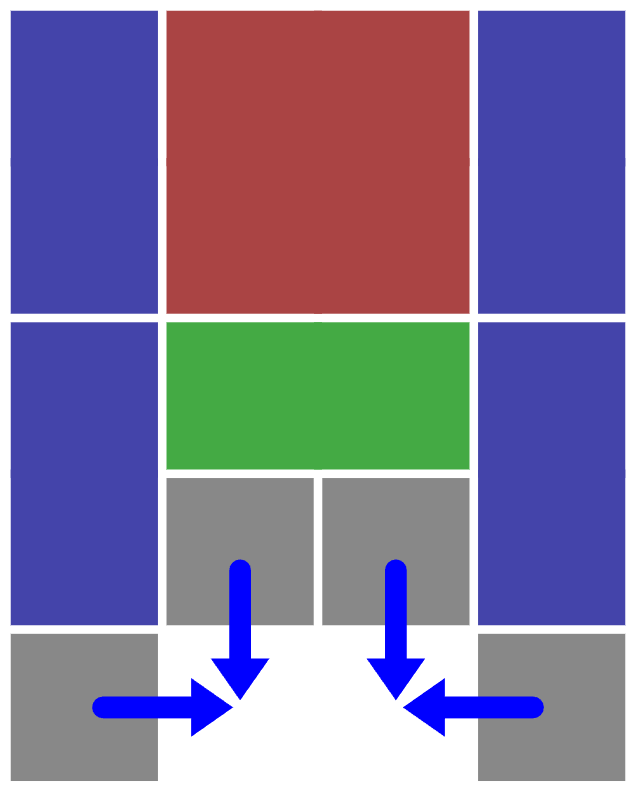
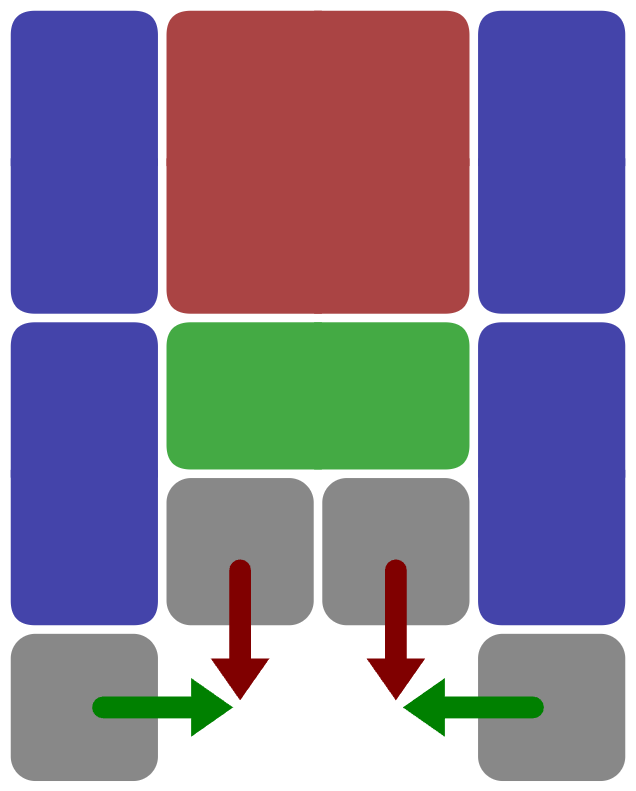
klotski 4/23/26

diff --git a/src/models/datas/defaultApp.ts b/src/models/datas/defaultApp.ts
@@ -17,8 +17,8 @@ export const defaultPreferences: Types.Preferences = {
 
 export const defaultDataSources: Types.DataSources = {
     gitHubRepositoryAPI: "https://api.github.com/repos/GamesCrafters/GamesmanUni",
-    // gameAPI: "https://nyc.cs.berkeley.edu/universal/v1/"
-    gameAPI: "http://localhost:8082/"
+    gameAPI: "https://nyc.cs.berkeley.edu/universal/v1/"
+    // gameAPI: "http://localhost:8082/"
 };
 
 export const defaultAvailableMove: Types.Move = {